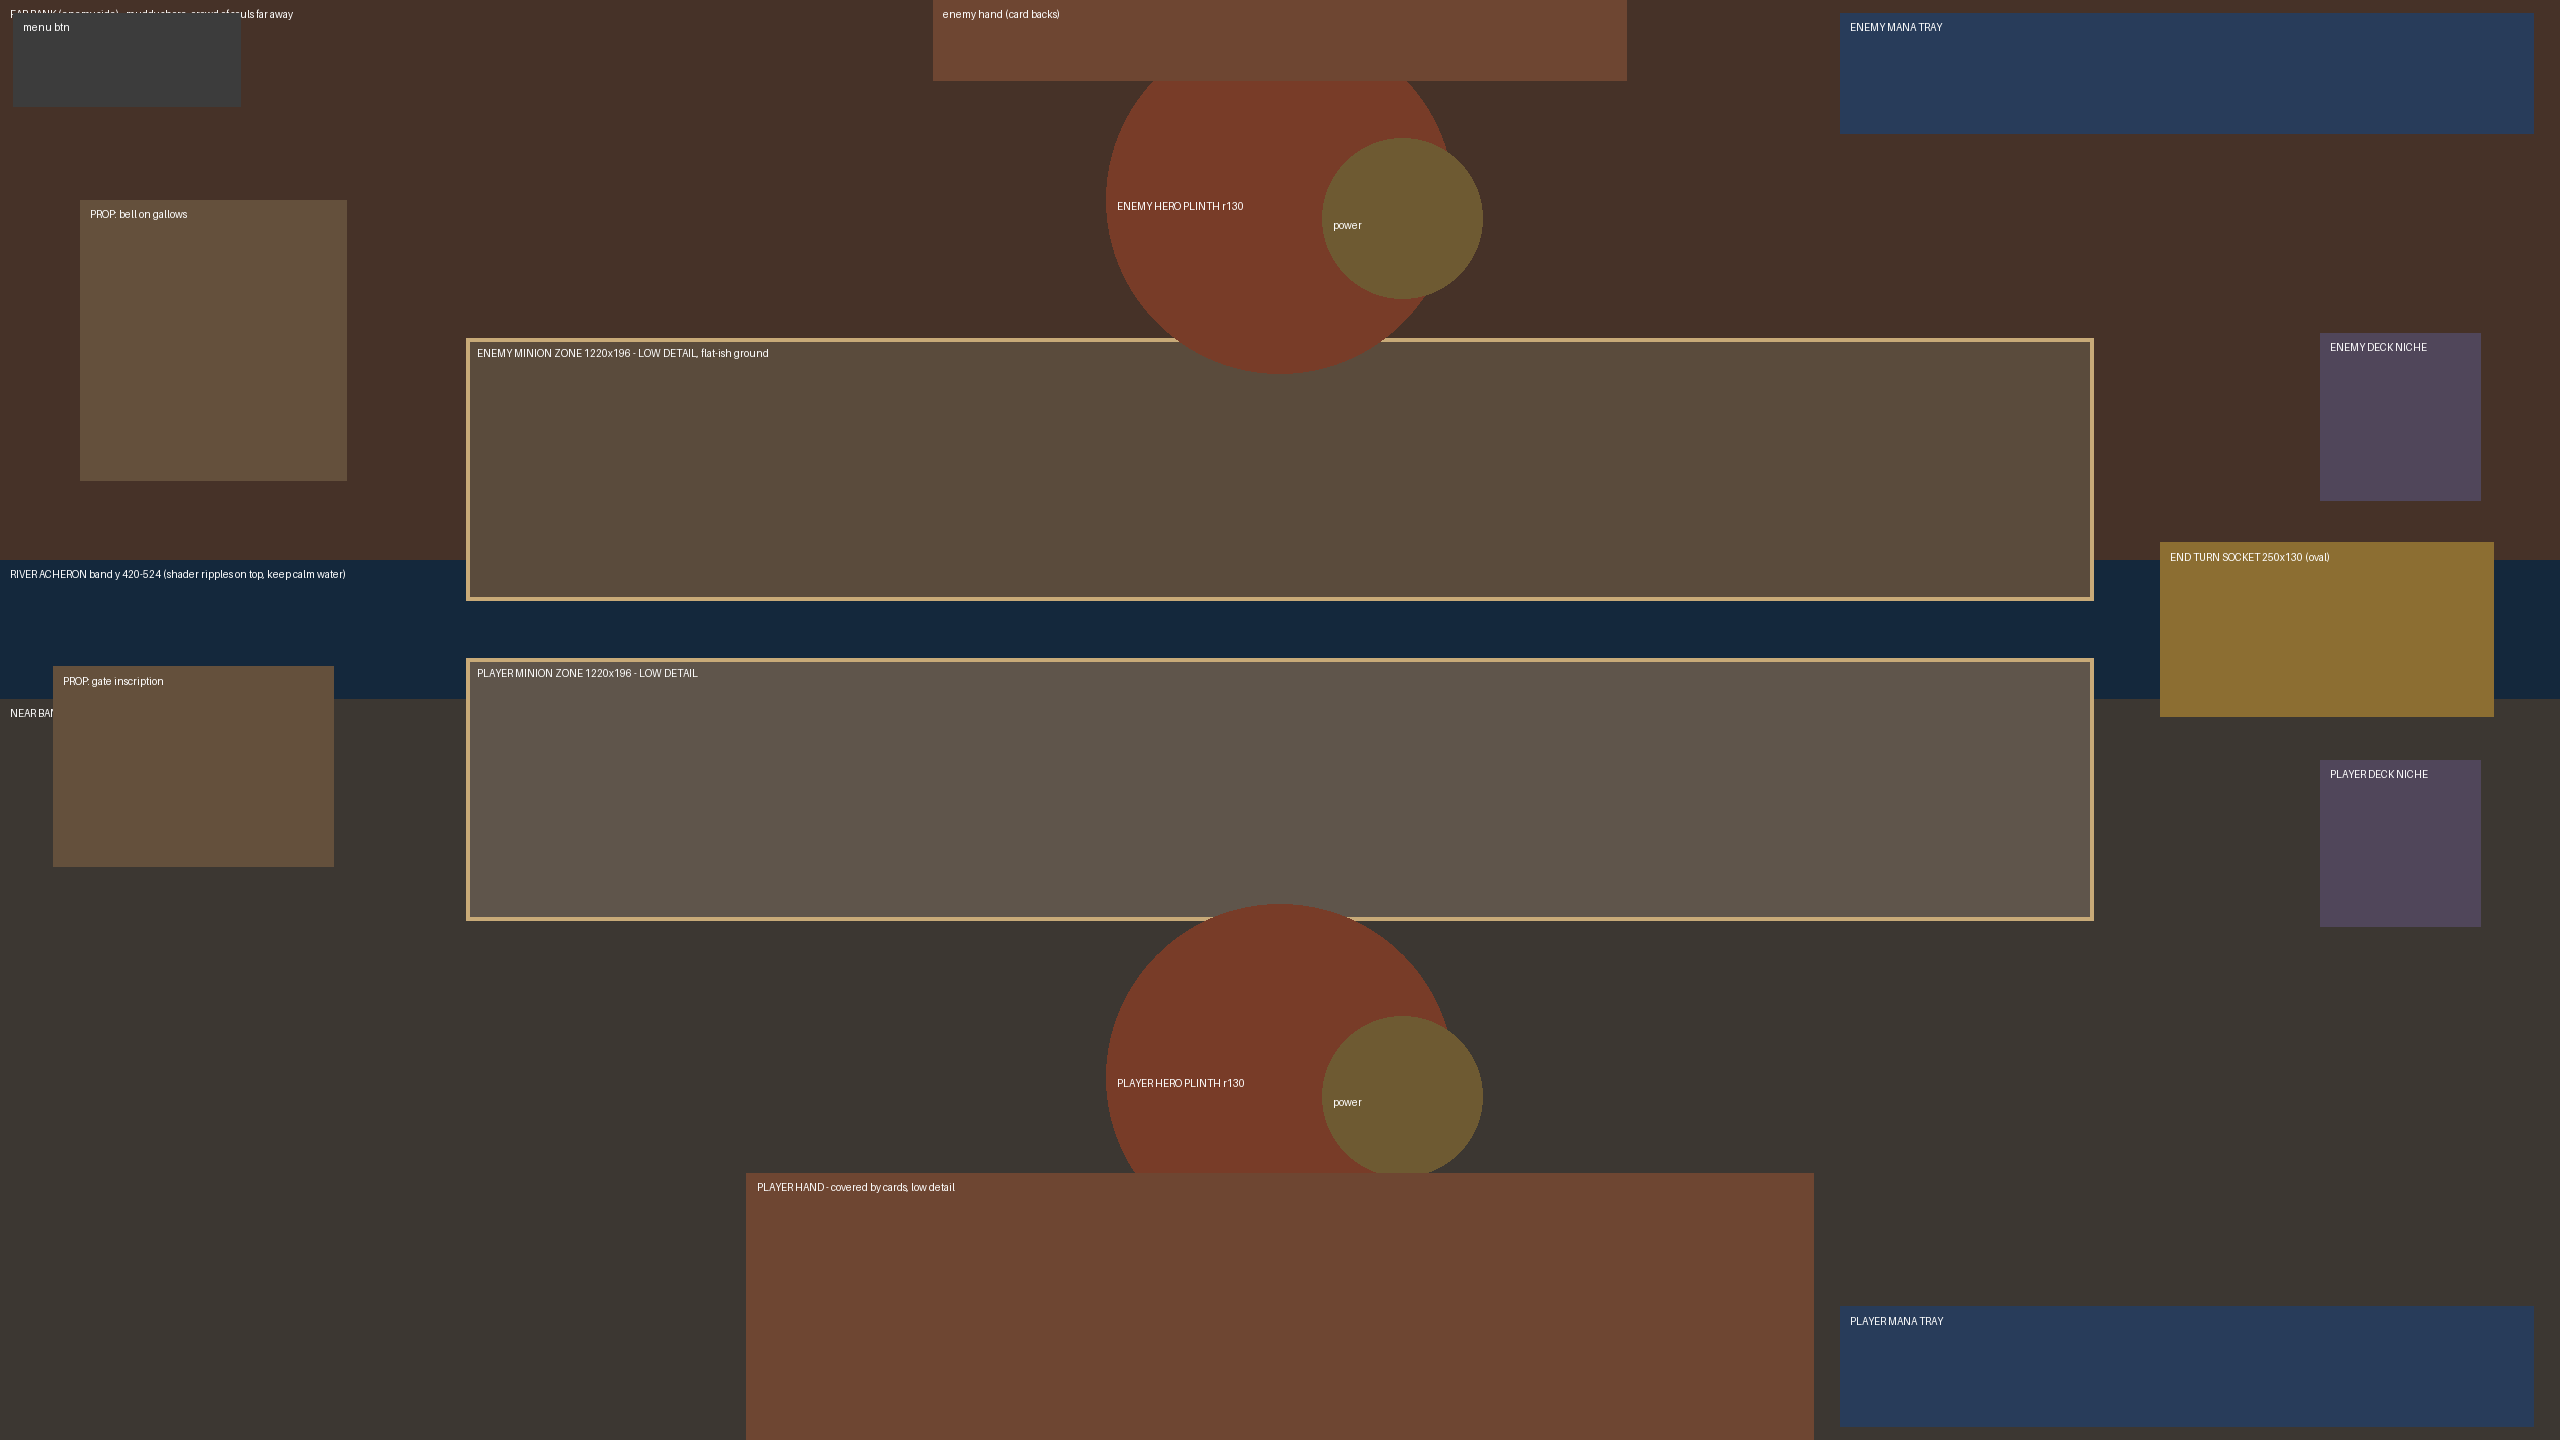
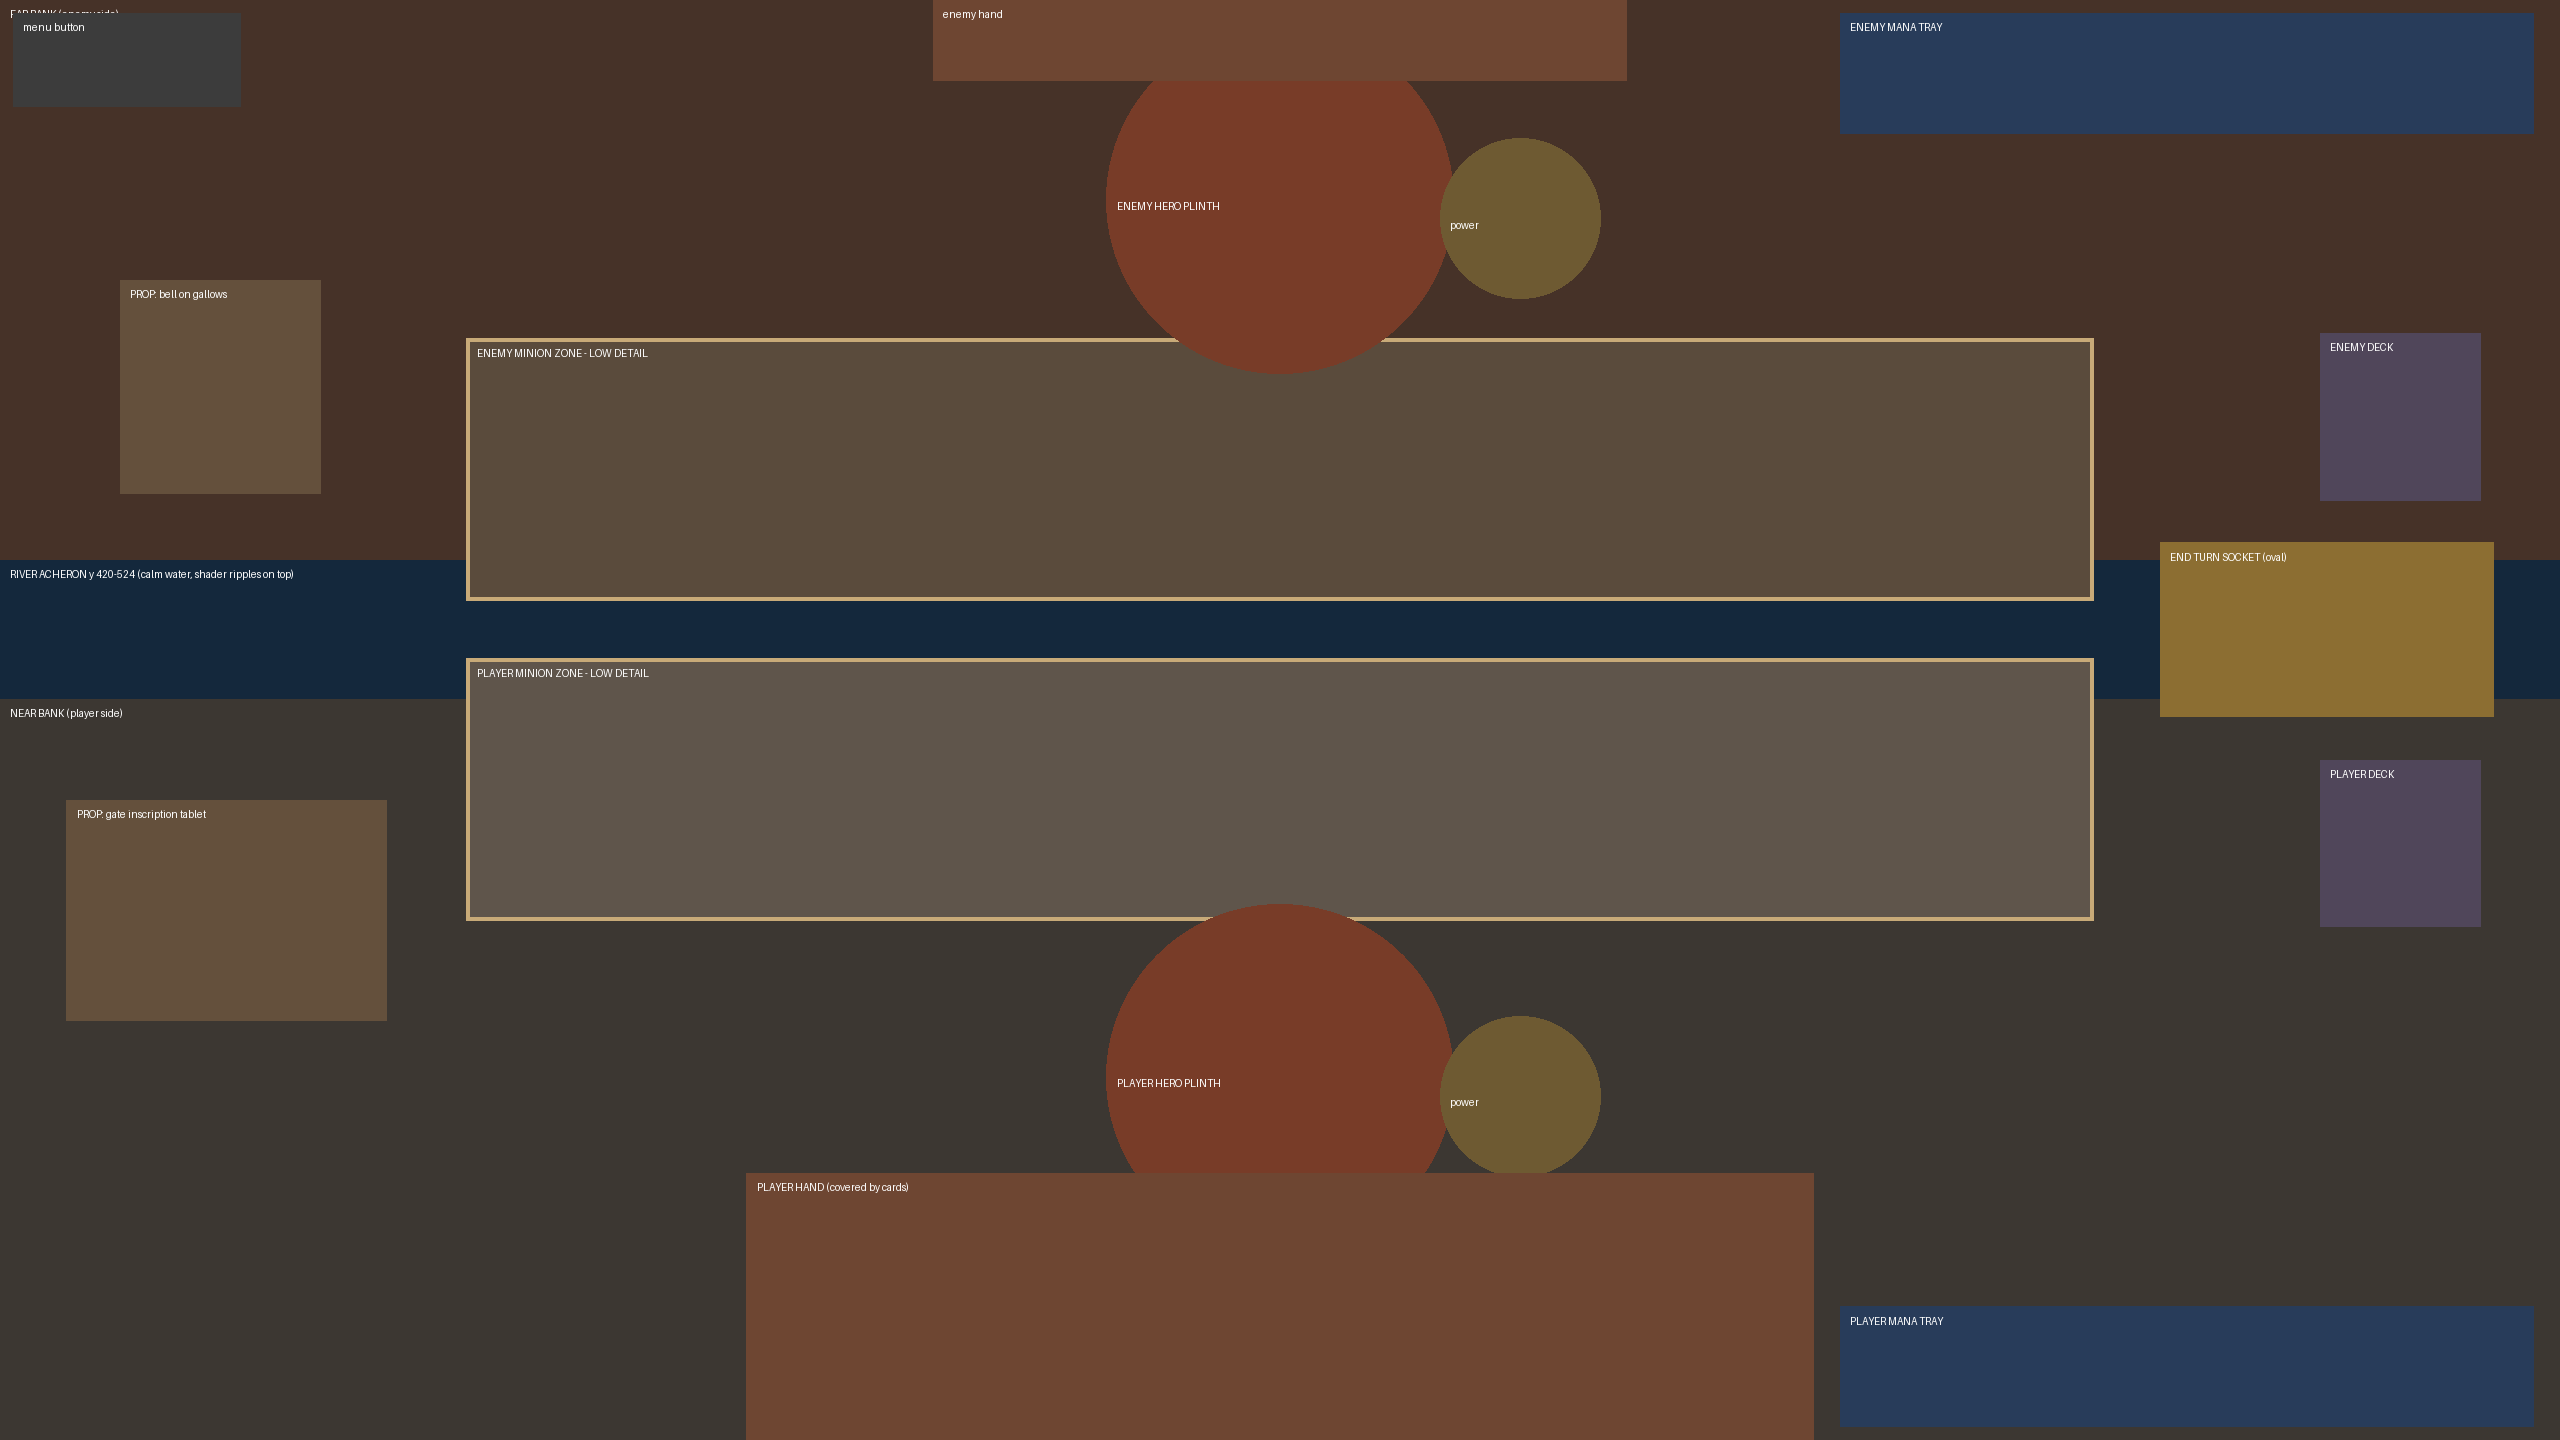
Painted board support (board, frame, mist layers) and a checked layout guide
Arenas can name a board/frame/mist image; the board replaces the landscape and
the shore beds. The layout guide is now drawn by tools/arena/layout_guide.py and
was verified by loading it as the board (power sockets and tablet moved).

Claude-Session: https://claude.ai/code/session_01DdQNqCW4E72dFJiXExsGjP

diff --git a/tools/arena/layout_guide.py b/tools/arena/layout_guide.py
@@ -1,0 +1,43 @@
+"""Draws art_src/arena/acheron_layout_guide.png: every board zone at the in-game coordinates (1920x1080 layout
+scaled to 2560x1440). Checked by loading it as the board (see docs/ARENA_BRIEF.md)."""
+import os
+from PIL import Image, ImageDraw
+
+ROOT = os.path.abspath(os.path.join(os.path.dirname(__file__), "..", ".."))
+W, H = 2560, 1440
+K = H / 1080
+
+im = Image.new("RGB", (W, H), (30, 22, 18))
+d = ImageDraw.Draw(im)
+
+
+def rect(x0, y0, x1, y1, col, label, outline=None):
+    d.rectangle((x0 * K, y0 * K, x1 * K, y1 * K), fill=col, outline=outline, width=4)
+    d.text((x0 * K + 10, y0 * K + 8), label, fill=(255, 255, 255))
+
+
+def circle(cx, cy, r, col, label):
+    d.ellipse(((cx - r) * K, (cy - r) * K, (cx + r) * K, (cy + r) * K), fill=col)
+    d.text(((cx - r) * K + 10, cy * K), label, fill=(255, 255, 255))
+
+
+rect(0, 0, 1920, 420, (70, 50, 40), "FAR BANK (enemy side)")
+rect(0, 524, 1920, 1080, (60, 55, 50), "NEAR BANK (player side)")
+rect(0, 420, 1920, 524, (20, 40, 60), "RIVER ACHERON y 420-524 (calm water, shader ripples on top)")
+rect(350, 254, 1570, 450, (90, 75, 60), "ENEMY MINION ZONE - LOW DETAIL", (200, 170, 120))
+rect(350, 494, 1570, 690, (95, 85, 75), "PLAYER MINION ZONE - LOW DETAIL", (200, 170, 120))
+circle(960, 150, 130, (120, 60, 40), "ENEMY HERO PLINTH")
+circle(960, 808, 130, (120, 60, 40), "PLAYER HERO PLINTH")
+circle(1140, 164, 60, (110, 90, 50), "power")
+circle(1140, 822, 60, (110, 90, 50), "power")
+rect(1620, 407, 1870, 537, (140, 110, 50), "END TURN SOCKET (oval)")
+rect(1740, 250, 1860, 375, (80, 70, 90), "ENEMY DECK")
+rect(1740, 570, 1860, 695, (80, 70, 90), "PLAYER DECK")
+rect(1380, 10, 1900, 100, (40, 60, 90), "ENEMY MANA TRAY")
+rect(1380, 980, 1900, 1070, (40, 60, 90), "PLAYER MANA TRAY")
+rect(10, 10, 180, 80, (60, 60, 60), "menu button")
+rect(90, 210, 240, 370, (100, 80, 60), "PROP: bell on gallows")
+rect(50, 600, 290, 765, (100, 80, 60), "PROP: gate inscription tablet")
+rect(560, 880, 1360, 1080, (110, 70, 50), "PLAYER HAND (covered by cards)")
+rect(700, 0, 1220, 60, (110, 70, 50), "enemy hand")
+im.save(os.path.join(ROOT, "art_src", "arena", "acheron_layout_guide.png"))

diff --git a/docs/ARENA_BRIEF.md b/docs/ARENA_BRIEF.md
@@ -28,14 +28,14 @@ in-game coordinates; the 1920x1080 layout is scaled x1.333.
   - roots and bones in the lower corners.
 - **Sockets (painted into the board, empty inside):**
   - two round stone **hero plinths** (radius about 130), at the top centre (960,150) and the bottom centre (960,808);
-  - a smaller round **power socket** beside each, at (1052,164) and (1052,822);
+  - a smaller round **power socket** beside each, at (1140,164) and (1140,822);
   - an oval **end-turn recess** of about 250x130 at (1745,472), sitting on the river's right edge like a stone
     landing;
   - two **deck niches** carved in the right cliff, at (1800,312) and (1800,632);
   - two **mana trays** of about 520x90, at the top right and the bottom right.
 - **Interactive toy spots** (props that react to taps, painted separately, see layer D):
-  - left cliff top (60-260, 150-360): the bell on its gallows;
-  - left middle (40-250, 500-650): the gate inscription tablet;
+  - left cliff top (90-240, 210-370): the bell on its gallows;
+  - left middle (50-290, 600-765): the gate inscription tablet;
   - right bottom corner: a brazier;
   - left bottom corner: a pile of skulls.
 
